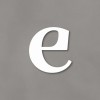
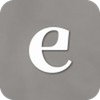
Bold links, rounded mark, reworked "Is this a fit", reordered homepage (#10)
- Links: remove every ">" pseudo-element and underline site-wide; links (nav,
  footer, "Read more", press, email) now read bold at weight 600 instead.
- Brand mark: bake a 14% corner radius into the mark and the favicon. The
  apple-touch icon stays square and opaque, since iOS applies its own mask.
- "Is this a fit": drop the vertical green bars. Each item now sits on a
  horizontal hairline behind a green check or a slate dash.
- What we do: indent the six services past the counter column so they read as
  items under the heading rather than siblings of it.
- Headers: extend the homepage's transparent-over-hero nav to About and
  Services & Results, with the heroes pulled up under the nav.
- Home: Select Clients now runs before Press, and the stairway photo moves up
  to stand alone after Deliverables. Section counters still read 01 to 07.

Claude-Session: https://claude.ai/code/session_01FGMR7BC2SP3vcZtN8hfqPY

diff --git a/app/services-and-results/page.tsx b/app/services-and-results/page.tsx
@@ -24,7 +24,7 @@ export default function ServicesPage() {
   return (
     <>
       <JsonLd data={[servicesLd, breadcrumbLd('Services & Results', '/services-and-results')]} />
-      <SiteHeader />
+      <SiteHeader transparentOverHero />
       <main>
         <section data-screen-label="Services hero" className={styles.hero}>
           <img src={hero.imgSrc} alt={hero.imgAlt} className={styles.heroImg} />
@@ -135,26 +135,26 @@ export default function ServicesPage() {
 
         <SectionShell n={fit.n} title={fit.title} white className={styles.bordered}>
           <div className={styles.fit}>
-            <div className={styles.fitCol}>
-              <h3 className={styles.fitTitle}>{fitYes.title}</h3>
-              <ul className={styles.fitList}>
-                {fitYes.items.map((item) => (
-                  <li key={item} className={`${styles.fitItem} ${styles.fitItemYes}`}>
-                    {item}
-                  </li>
-                ))}
-              </ul>
-            </div>
-            <div className={styles.fitCol}>
-              <h3 className={styles.fitTitle}>{fitNo.title}</h3>
-              <ul className={styles.fitList}>
-                {fitNo.items.map((item) => (
-                  <li key={item} className={styles.fitItem}>
-                    {item}
-                  </li>
-                ))}
-              </ul>
-            </div>
+            {[fitYes, fitNo].map((col, i) => {
+              const yes = i === 0;
+              return (
+                <div key={col.title} className={styles.fitCol}>
+                  <h3 className={styles.fitTitle}>{col.title}</h3>
+                  <ul className={styles.fitList}>
+                    {col.items.map((item) => (
+                      <li key={item} className={styles.fitItem}>
+                        <span aria-hidden="true" className={yes ? `${styles.fitMark} ${styles.fitMarkYes}` : styles.fitMark}>
+                          <svg viewBox="0 0 20 20" fill="none" stroke="currentColor" strokeWidth="1.75" strokeLinecap="round" strokeLinejoin="round">
+                            {yes ? <path d="M4 10.5l4 4 8-9" /> : <path d="M4.5 10h11" />}
+                          </svg>
+                        </span>
+                        <span>{item}</span>
+                      </li>
+                    ))}
+                  </ul>
+                </div>
+              );
+            })}
           </div>
         </SectionShell>
 

diff --git a/app/page.tsx b/app/page.tsx
@@ -21,6 +21,10 @@ export const metadata: Metadata = pageMeta({
 });
 
 const [promise, services, projects, deliverables, press, clients, contact] = HOME_COPY.titles;
+// Select Clients now runs before Press, so the two sections trade section numbers and the
+// counters still read 01…07 down the page.
+const clientsSection = { ...clients, n: press.n };
+const pressSection = { ...press, n: clients.n };
 
 export default function HomePage() {
   const { hero } = HOME_COPY;
@@ -105,15 +109,21 @@ export default function HomePage() {
           </div>
         </SectionShell>
 
-        <SectionShell
-          n={press.n}
-          title={press.title}
-          sectionExtra={
-            <figure className={styles.figure}>
-              <img src={HOME_COPY.press.figureSrc} alt={HOME_COPY.press.figureAlt} className={styles.figureImg} />
-            </figure>
-          }
-        >
+        <figure className={styles.figure}>
+          <img src={HOME_COPY.press.figureSrc} alt={HOME_COPY.press.figureAlt} className={styles.figureImg} />
+        </figure>
+
+        <SectionShell n={clientsSection.n} title={clientsSection.title} white>
+          <ul className={styles.logos}>
+            {HOME.logos.map((l) => (
+              <li key={l.src} className={styles.logoTile}>
+                <img src={l.src} alt={l.alt} loading="lazy" className={styles.logo} />
+              </li>
+            ))}
+          </ul>
+        </SectionShell>
+
+        <SectionShell n={pressSection.n} title={pressSection.title}>
           <ul className={styles.press}>
             {HOME.press.map((p) => (
               <li key={p.href} className={styles.pressRow}>
@@ -127,16 +137,6 @@ export default function HomePage() {
                     {HOME_COPY.press.linkLabel}
                   </a>
                 </div>
-              </li>
-            ))}
-          </ul>
-        </SectionShell>
-
-        <SectionShell n={clients.n} title={clients.title} white>
-          <ul className={styles.logos}>
-            {HOME.logos.map((l) => (
-              <li key={l.src} className={styles.logoTile}>
-                <img src={l.src} alt={l.alt} loading="lazy" className={styles.logo} />
               </li>
             ))}
           </ul>

diff --git a/app/services-and-results/services.module.css b/app/services-and-results/services.module.css
@@ -2,7 +2,9 @@
 
 .hero {
   position: relative;
-  min-height: min(72vh, 640px);
+  /* See the note on the About hero: pulled up under the transparent nav. */
+  margin-top: calc(-1 * var(--nav-h) - 1px);
+  min-height: calc(min(72vh, 640px) + var(--nav-h));
   display: grid;
   align-items: end;
   background: var(--ink);
@@ -27,7 +29,7 @@
   width: 100%;
   max-width: 1248px;
   margin: 0 auto;
-  padding: 112px var(--gutter) 64px;
+  padding: calc(112px + var(--nav-h)) var(--gutter) 64px;
   box-sizing: border-box;
   display: grid;
   gap: 24px;
@@ -330,18 +332,16 @@
 
 .fit {
   display: grid;
-  grid-template-columns: repeat(auto-fit, minmax(min(100%, 300px), 1fr));
-  gap: 48px;
+  grid-template-columns: repeat(auto-fit, minmax(min(100%, 320px), 1fr));
+  gap: 40px 64px;
 }
 
 .fitCol {
-  display: grid;
-  gap: 16px;
   align-content: start;
 }
 
 .fitTitle {
-  margin: 0;
+  margin: 0 0 4px;
   font-size: var(--t-h3);
   line-height: 1.25;
   font-weight: 600;
@@ -352,20 +352,38 @@
   margin: 0;
   padding: 0;
   list-style: none;
-  display: grid;
-  gap: 12px;
   font-size: var(--t-body);
   line-height: 1.55;
   color: var(--ink-2);
 }
 
+/* Rows separated by the same horizontal hairline the services list and results table use,
+   rather than a stack of short vertical bars. */
 .fitItem {
-  padding-left: 20px;
-  border-left: 2px solid var(--line);
+  display: grid;
+  grid-template-columns: 20px minmax(0, 1fr);
+  gap: 14px;
+  align-items: start;
+  padding: 18px 0;
+  border-top: 1px solid var(--line);
 }
 
-.fitItemYes {
-  border-left-color: var(--growth);
+.fitMark {
+  display: block;
+  width: 20px;
+  height: 20px;
+  margin-top: 1px;
+  color: var(--slate);
+}
+
+.fitMarkYes {
+  color: var(--growth);
+}
+
+.fitMark svg {
+  display: block;
+  width: 100%;
+  height: 100%;
 }
 
 /* ---------- 05 Start (dark band) ---------- */
@@ -437,18 +455,8 @@
 
 .email {
   font-size: var(--t-body-sm);
+  font-weight: 600;
   color: var(--white);
-}
-
-.email::after {
-  content: ">" / "";
-  display: inline-block;
-  margin-left: 6px;
-  transition: transform var(--dur) var(--ease);
-}
-
-.email:hover::after {
-  transform: translateX(3px);
 }
 
 .email:hover {

diff --git a/app/about/about.module.css b/app/about/about.module.css
@@ -2,7 +2,10 @@
 
 .hero {
   position: relative;
-  min-height: min(56vh, 480px);
+  /* Sits under the transparent nav, as on the home page: the nav box is --nav-h plus its 1px
+     border, and both have to be pulled up or a strip of page background shows above the image. */
+  margin-top: calc(-1 * var(--nav-h) - 1px);
+  min-height: calc(min(56vh, 480px) + var(--nav-h));
   display: grid;
   align-items: end;
   background: var(--ink);
@@ -27,7 +30,7 @@
   width: 100%;
   max-width: 1248px;
   margin: 0 auto;
-  padding: 96px var(--gutter) 64px;
+  padding: calc(96px + var(--nav-h)) var(--gutter) 64px;
   box-sizing: border-box;
 }
 

diff --git a/app/about/page.tsx b/app/about/page.tsx
@@ -21,7 +21,7 @@ export default function AboutPage() {
   return (
     <>
       <JsonLd data={[personLd(ABOUT_COPY.partner.paragraphs[0]), breadcrumbLd('About', '/about')]} />
-      <SiteHeader />
+      <SiteHeader transparentOverHero />
       <main>
         <section data-screen-label="About hero" className={styles.hero}>
           <img src={hero.imgSrc} alt={hero.imgAlt} className={styles.heroImg} />

diff --git a/components/SiteHeader.module.css b/components/SiteHeader.module.css
@@ -62,13 +62,13 @@
 
 .link {
   color: var(--nav-ink);
+  font-weight: 600;
   text-decoration: none;
-  text-underline-offset: 4px;
 }
 
 .link:hover {
   color: var(--nav-ink);
-  text-decoration: underline;
+  opacity: 0.7;
 }
 
 .menuButton {
@@ -120,6 +120,7 @@
   display: block;
   padding: 14px 0;
   color: var(--ink);
+  font-weight: 600;
   text-decoration: none;
 }
 

diff --git a/app/home.module.css b/app/home.module.css
@@ -346,19 +346,9 @@
 
 .pressLink {
   font-size: var(--t-body-sm);
+  font-weight: 600;
   color: var(--growth);
   justify-self: start;
-}
-
-.pressLink::after {
-  content: ">" / "";
-  display: inline-block;
-  margin-left: 6px;
-  transition: transform var(--dur) var(--ease);
-}
-
-.pressLink:hover::after {
-  transform: translateX(3px);
 }
 
 .pressLink:hover {

diff --git a/components/SiteFooter.module.css b/components/SiteFooter.module.css
@@ -47,22 +47,12 @@
 
 .white {
   color: var(--white);
+  font-weight: 600;
   justify-self: start;
-}
-
-.white::after {
-  content: ">" / "";
-  display: inline-block;
-  margin-left: 6px;
-  transition: transform var(--dur) var(--ease);
 }
 
 .white:hover {
   color: var(--white);
-}
-
-.white:hover::after {
-  transform: translateX(3px);
 }
 
 .book {

diff --git a/components/SiteHeader.tsx b/components/SiteHeader.tsx
@@ -8,7 +8,7 @@ import { isRoute, route } from '@/content/site';
 import styles from './SiteHeader.module.css';
 
 type Props = {
-  /** Home only: start transparent over the hero and turn solid once scrollY > 40. */
+  /** Pages with a full-bleed hero: start transparent over it, fade to solid once scrollY > 40. */
   transparentOverHero?: boolean;
 };
 

diff --git a/components/ui.module.css b/components/ui.module.css
@@ -24,19 +24,8 @@
   border: 0;
 }
 
-.linkButton::after {
-  content: ">" / "";
-  font-weight: 600;
-  line-height: 1;
-  transition: transform var(--dur) var(--ease);
-}
-
 .linkButton:hover {
   color: var(--growth);
-}
-
-.linkButton:hover::after {
-  transform: translateX(3px);
 }
 
 .primary {
